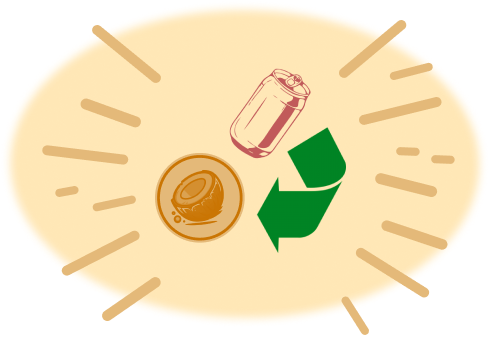
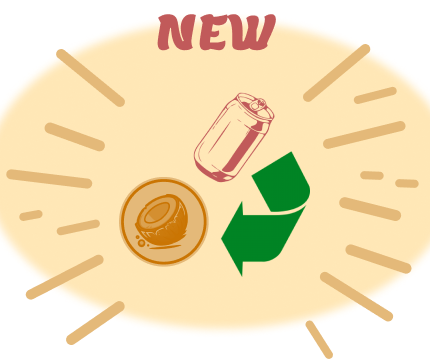
[PUT] Start.js and Start2.js at launch of the app

diff --git a/AwesomeProject/screen/Start.js b/AwesomeProject/screen/Start.js
@@ -1,19 +1,36 @@
-import { Button } from 'react-native';
+
 import React from 'react';
-import { StyleSheet, View, Image } from 'react-native';
-import { useNavigation } from '@react-navigation/native'; // Import du hook
+import { StyleSheet, View, Image, TouchableOpacity, Text } from 'react-native';
+import { useNavigation } from '@react-navigation/native'; 
 
 const Start = () => {
-  const navigation = useNavigation(); // Utilisation du hook useNavigation
+  const navigation = useNavigation(); 
 
   return (
     <View style={styles.container}>
-      <Image source={require('C:/cours/Back2Fest/Back2Fest/AwesomeProject/assets/logo_coco.png')} style={styles.image} />
-      <Image source={require('C:/cours/Back2Fest/Back2Fest/AwesomeProject/assets/eco_image.png')} style={styles.image1} />
+      <TouchableOpacity style={styles.imageWrapper1}>
+        <Image source={require('C:/cours/Back2Fest/Back2Fest/AwesomeProject/assets/logo_coco.png')} style={styles.image1} />
+      </TouchableOpacity>
+
+      <TouchableOpacity style={styles.imageWrapper2}>
+        <Image source={require('C:/cours/Back2Fest/Back2Fest/AwesomeProject/assets/eco_image.png')} style={styles.image2} />
+      </TouchableOpacity>
+      
+      <Text style={styles.text}>Une toute nouvelle poubelle pour une toute nouvelle édition !</Text>
+      
       <View style={styles.buttonContainer}>
-        <Button title="Je zap" onPress={() => navigation.navigate('Main')} /> 
-        <Button title="Suivant" onPress={() => navigation.navigate('Start2')} /> 
-        </View>
+        <TouchableOpacity onPress={() => navigation.navigate('Main')} style={styles.button}>
+          <Text style={styles.buttonText}>Je zap</Text>
+        </TouchableOpacity>
+        <TouchableOpacity onPress={() => navigation.navigate('Start2')} style={styles.button}>
+          <Text style={styles.buttonText}>Suivant</Text>
+        </TouchableOpacity>
+      </View>
+
+      <View style={styles.paginationContainer}>
+        <View style={[styles.paginationDot, styles.activePaginationDot]} />
+        <View style={styles.paginationDot} />
+      </View>
     </View>
   );
 }
@@ -25,20 +42,68 @@ const styles = StyleSheet.create({
     alignItems: 'center',
     backgroundColor: '#F5E5CC',
   },
-  image: {
-    width: 200,
-    height: 200,
-    marginBottom: 20,
+  imageWrapper1: {
+    width: 220 / 1.5,
+    height: 200 / 1.5,
+    marginBottom: 60,
+  },
+  imageWrapper2: {
+    width: 380,
+    height: 320,
+    marginTop: 20,
+    marginBottom: 50,
   },
   image1: {
-    width: 300,
-    height: 200,
-    marginBottom: 20,
+    width: "100%",
+    height: "100%",
+  },
+  image2: {
+    width: "100%",
+    height: "100%",
   },
   buttonContainer: {
     flexDirection: 'row',
     justifyContent: 'space-between',
     width: '80%',
+  },
+  button: {
+    backgroundColor: '#C15A5A',
+    paddingVertical: 10,
+    paddingHorizontal: 20,
+    borderRadius: 20, 
+    marginHorizontal: 10,
+  },
+  buttonText: {
+    color: '#F5E5CC',
+    fontFamily: 'Lemon',
+    fontWeight: 'bold',
+    textAlign: 'center',
+  },
+  text: {
+    fontSize: 20,
+    marginBottom: 60,
+    marginRight: 20,
+    marginLeft: 20,
+    textAlign: 'center',
+    color: '#C15A5A',
+    fontFamily: 'Lemon',
+    fontWeight: 'bold',
+  },
+  paginationContainer: {
+    flexDirection: 'row',
+    justifyContent: 'center',
+    alignItems: 'center',
+    marginBottom: 20,
+  },
+  paginationDot: {
+    width: 10,
+    height: 10,
+    borderRadius: 5,
+    backgroundColor: '#E5C4B5',
+    marginHorizontal: 5,
+  },
+  activePaginationDot: {
+    backgroundColor: '#C15A5A',
   },
 });
 

diff --git a/AwesomeProject/screen/Start2.js b/AwesomeProject/screen/Start2.js
@@ -1,10 +1,85 @@
-import { View, Text } from 'react-native'
-import React from 'react'
+import React from 'react';
+import { StyleSheet, Text, View, Image, TouchableOpacity } from 'react-native';
+import { useNavigation } from '@react-navigation/native'; // Import du hook de navigation
 
-export default function Start2() {
+const Start2 = () => {
+  const navigation = useNavigation(); // Utilisation du hook useNavigation
+
   return (
-    <View>
-      <Text>Start2</Text>
+    <View style={styles.container}>
+      <View style={styles.topContainer}>
+        <Image source={require('C:/cours/Back2Fest/Back2Fest/AwesomeProject/assets/logo_fire.png')} style={styles.logo} />
+        <Image source={require('C:/cours/Back2Fest/Back2Fest/AwesomeProject/assets/dancer.png')} style={styles.dancers} />
+      </View>
+      <Text style={styles.description}>Le plus grand festival de rap en France</Text>
+      <TouchableOpacity style={styles.button} onPress={() => navigation.navigate('Main')}>
+        <Text style={styles.buttonText}>C’est parti !</Text>
+      </TouchableOpacity>
+      <View style={styles.paginationContainer}>
+        <View style={styles.paginationDot} />
+        <View style={[styles.paginationDot, styles.activePaginationDot]} />
+      </View>
     </View>
-  )
+  );
 }
+
+const styles = StyleSheet.create({
+  container: {
+    flex: 1,
+    backgroundColor: '#F5E5CC',
+    justifyContent: 'space-between',
+    alignItems: 'center',
+    paddingVertical: 40,
+  },
+  topContainer: {
+    alignItems: 'center',
+  },
+  logo: {
+    width: 130*2,
+    height: 50*2,
+    resizeMode: 'contain',
+  },
+  dancers: {
+    width: 400,
+    height: 400,
+    resizeMode: 'contain',
+  },
+  description: {
+    fontSize: 20,
+    color: '#C15A5A',
+    fontWeight: 'bold',
+    textAlign: 'center',
+    marginVertical: 20,
+    fontFamily: 'Lemon',
+  },
+  button: {
+    backgroundColor: '#C15A5A',
+    paddingVertical: 15,
+    paddingHorizontal: 40,
+    borderRadius: 30,
+    elevation: 3, 
+  },
+  buttonText: {
+    color: '#F5E5CC',
+    fontSize: 16,
+    fontWeight: 'bold',
+  },
+  paginationContainer: {
+    flexDirection: 'row',
+    justifyContent: 'center',
+    alignItems: 'center',
+    marginBottom: 20,
+  },
+  paginationDot: {
+    width: 10,
+    height: 10,
+    borderRadius: 5,
+    backgroundColor: '#E5C4B5',
+    marginHorizontal: 5,
+  },
+  activePaginationDot: {
+    backgroundColor: '#C15A5A',
+  },
+});
+
+export default Start2;
